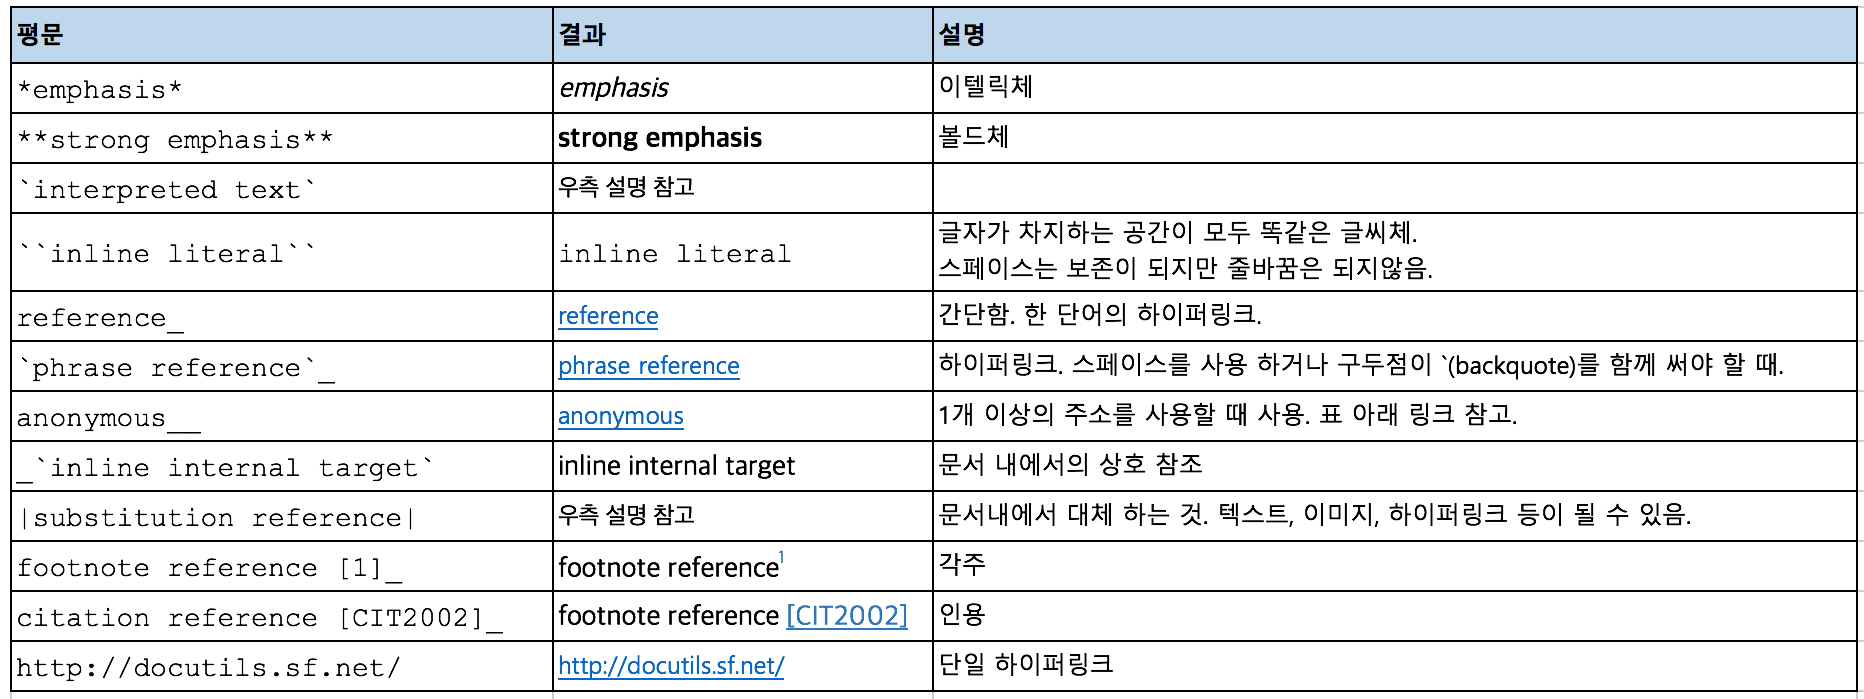
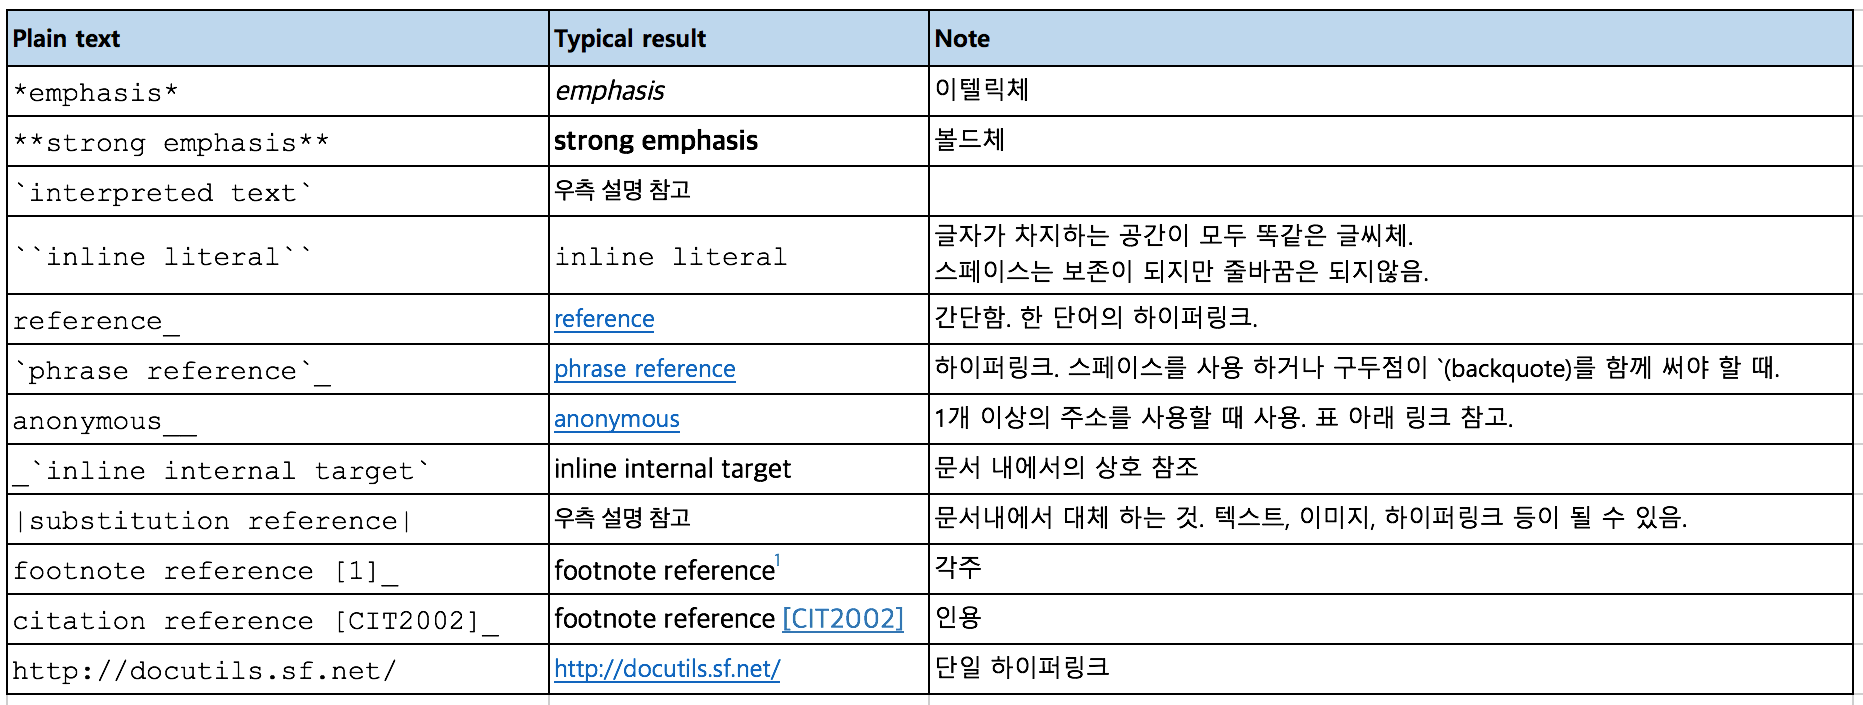
escaping with backslashes 작성

Changed region(s): [[0.0, 0.0, 1.0, 1.0], [0.1557, 0.5408, 0.1868, 0.5708]]

diff --git a/_posts/2016-08-28-restructuredtext.md b/_posts/2016-08-28-restructuredtext.md
@@ -30,6 +30,11 @@ title: reStructuredText
 추후 내용 수정 및 덧붙일 예정.
 
 ## **Escaping with Backslashes**
+reST에서는 `*`, `` ` ``, `\`와 같이 특별한 의미를 가진 마크업 문자 그 자체를 얻기 위해서 backslash("\\")를 사용합니다. `\`를 얻고 싶으면 escaped backslash("\\\\")를 사용합니다.
+![Escaping with Backslaches 표1](./images/reST_EscapeWithBackslashes_1.png)
+
+Python 문자열에서도 마찬가지입니다. 실질적인 reST의 사용을 위해서 모든 backslash문자들을 escape할 필요가 있습니다.
+![Escaping with Backslaches 표2](./images/reST_EscapeWithBackslashes_2.png)
 
 ## **Section Structure**
 
